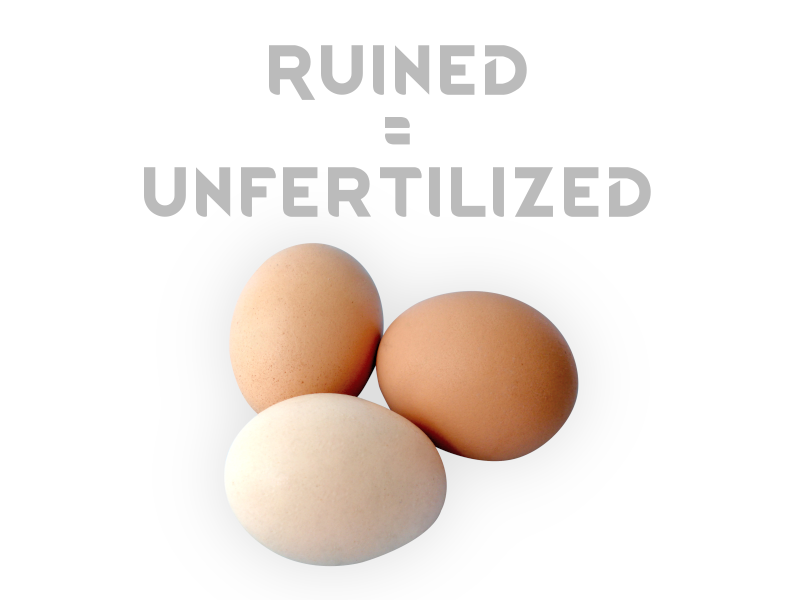
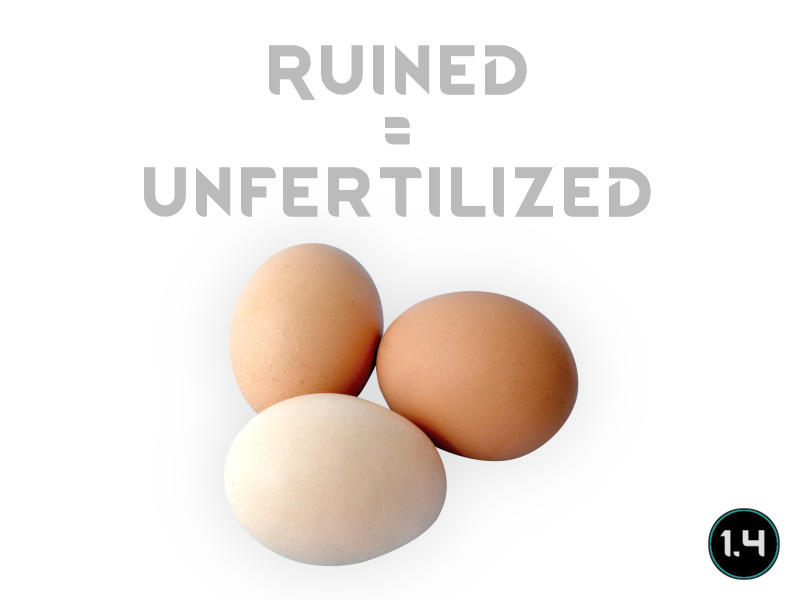
Should now work with eggs that is not defined as the unfertilized type for that egg-layer by the mod-author but still uses a similar defname, Vanilla Animals Expanded for example

Changed region(s): [[0.875, 0.84, 1.0, 0.99]]

diff --git a/Source/RuinedIsUnfertilized/CompTemperatureRuinable_DoTicks.cs b/Source/RuinedIsUnfertilized/CompTemperatureRuinable_DoTicks.cs
@@ -47,9 +47,21 @@ public static class CompTemperatureRuinable_DoTicks
         var unfertilizedEggDef = hatcher.race?.GetCompProperties<CompProperties_EggLayer>()?.eggUnfertilizedDef;
         if (unfertilizedEggDef == null)
         {
-            RuinedIsUnfertilized.ignoredEggTypes.Add(parentDef);
-            RuinedIsUnfertilized.ignoredEggs.Add(egg);
-            return;
+            if (!egg.def.defName.Contains("Fertilized"))
+            {
+                RuinedIsUnfertilized.ignoredEggTypes.Add(parentDef);
+                RuinedIsUnfertilized.ignoredEggs.Add(egg);
+                return;
+            }
+
+            unfertilizedEggDef =
+                DefDatabase<ThingDef>.GetNamedSilentFail(egg.def.defName.Replace("Fertilized", "Unfertilized"));
+            if (unfertilizedEggDef == null)
+            {
+                RuinedIsUnfertilized.ignoredEggTypes.Add(parentDef);
+                RuinedIsUnfertilized.ignoredEggs.Add(egg);
+                return;
+            }
         }
 
         var location = __instance.parent.Position;

diff --git a/README.md b/README.md
@@ -1,20 +1,20 @@
 # RuinedIsUnfertilized
 
-![Image](https://i.imgur.com/buuPQel.png)
+![Image](https://i.imgur.com/iCj5o7O.png)
 
 
 Fertilized eggs that gets ruined by temperature will now change to being unfertilized eggs instead.
 
 This will of course only happen if there is an unfertilized egg type, as most wild egg-laying animals do not have that defined.
 	
-![Image](https://i.imgur.com/O0IIlYj.png)
+![Image](https://i.imgur.com/Ds0rBAD.png)
 
 Since modding is just a hobby for me I expect no donations to keep modding. If you still want to show your support you can gift me anything from my https://store.steampowered.com/wishlist/id/Mlie]Wishlist or buy me a cup of tea.
 
-https://ko-fi.com/G2G55DDYD]![Image](https://i.imgur.com/Utx6OIH.png)
+https://ko-fi.com/G2G55DDYD]![Image](https://i.imgur.com/VWG0yff.png)
 
 
-![Image](https://i.imgur.com/PwoNOj4.png)
+![Image](https://i.imgur.com/5xwDG6H.png)
 
 
 
@@ -26,6 +26,4 @@ https://ko-fi.com/G2G55DDYD]![Image](https://i.imgur.com/Utx6OIH.png)
 -  If you have the solution for a problem, please post it to the GitHub repository.
 
 
-
-
-https://steamcommunity.com/sharedfiles/filedetails/changelog/2555349961]Last updated 2023-03-26
+https://steamcommunity.com/sharedfiles/filedetails/changelog/2555349961]Last updated 2023-08-10
